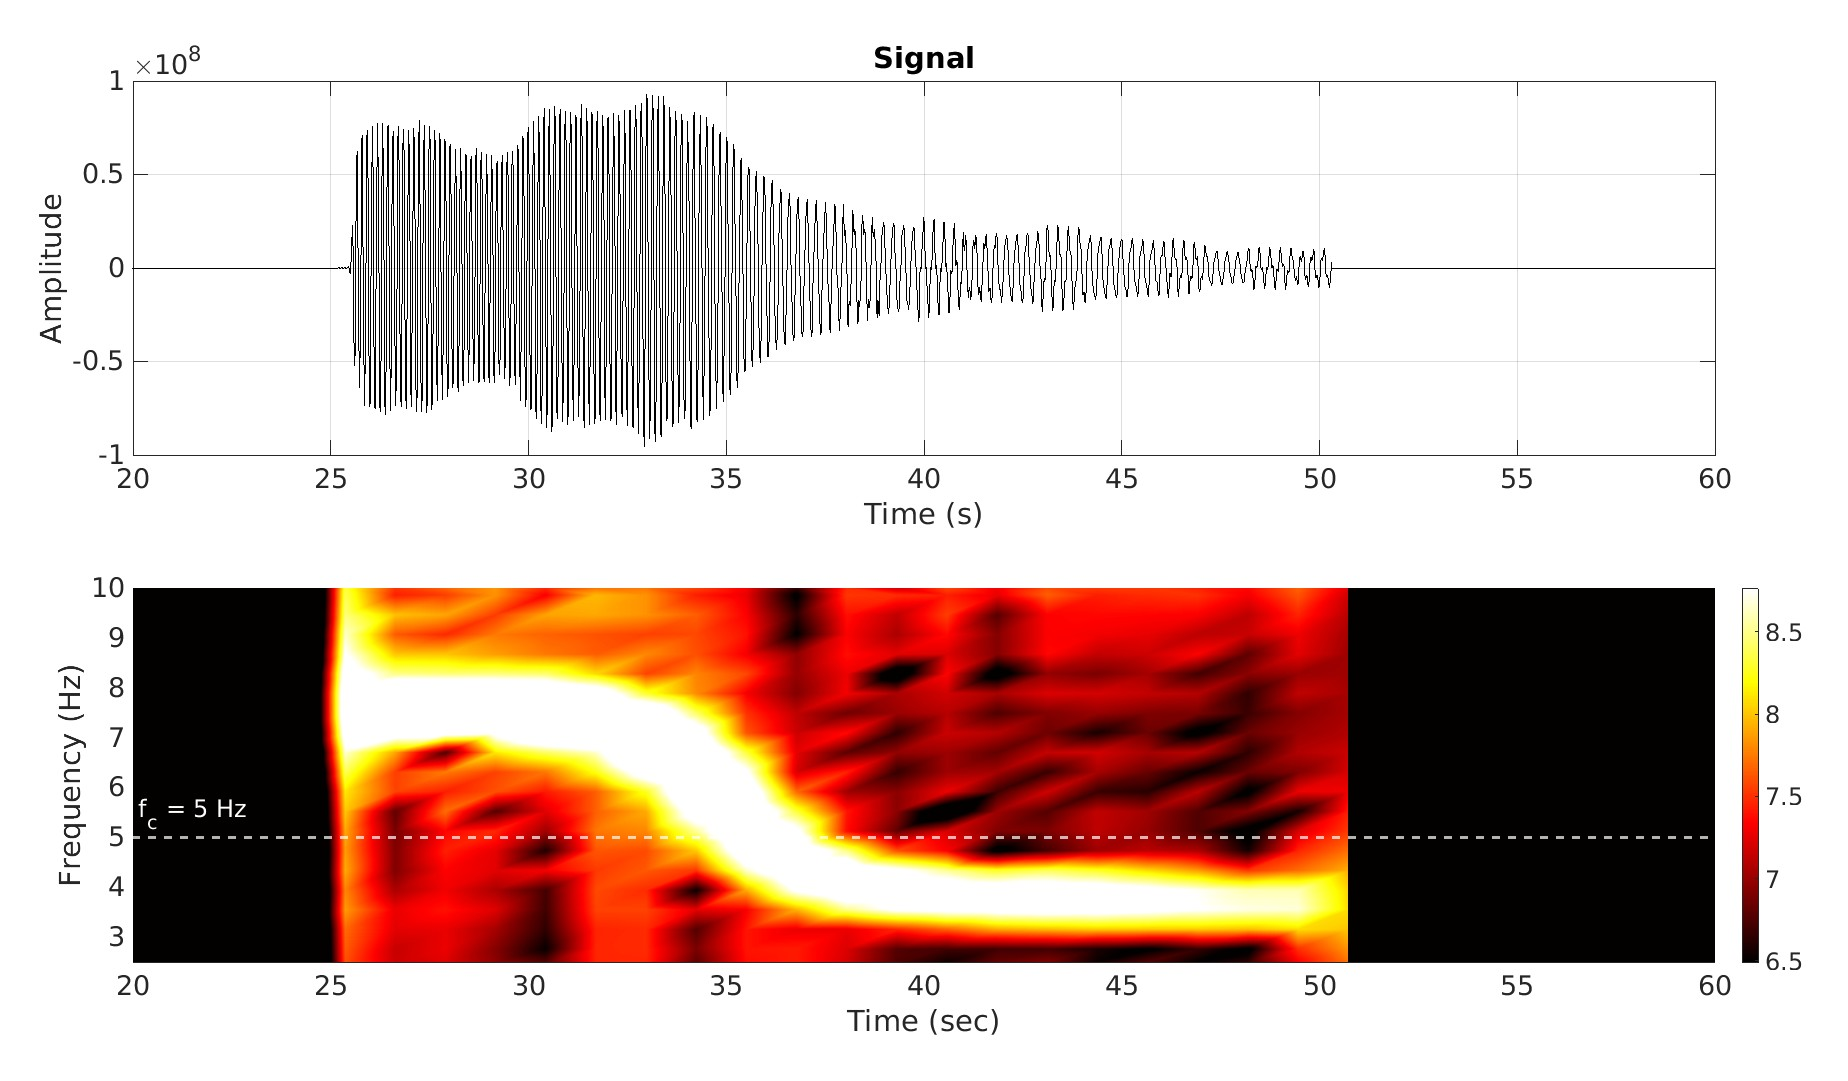
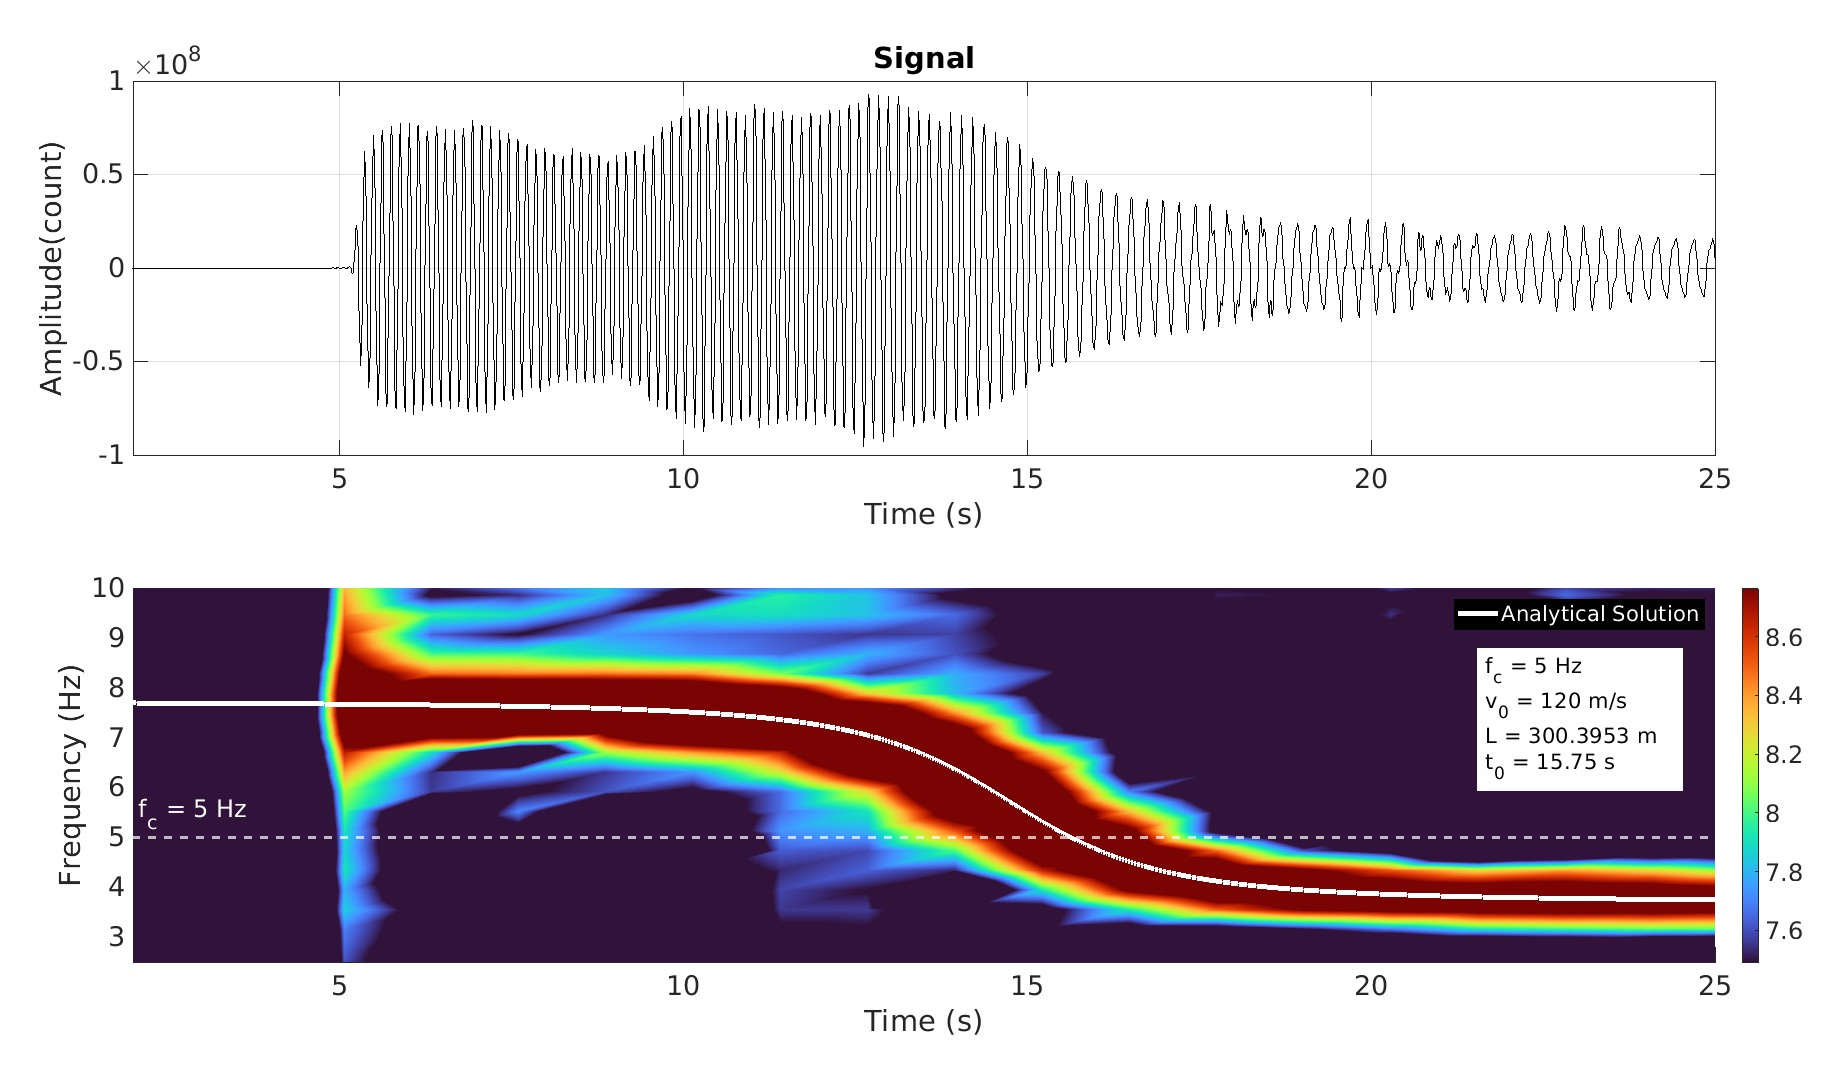
add analytical solution

diff --git a/modeling/FD2D/main_cart.m b/modeling/FD2D/main_cart.m
@@ -10,7 +10,7 @@ clc;clear;close all
 
 %% parameters (Time, Stencil, grid, media, source)
 %%%%% Time %%%%%
-T_total = 120.0;     % unit (s)
+T_total = 30.0;     % unit (s)
 
 %%%%% grid %%%%%
 nz=500 + 6;
@@ -55,7 +55,7 @@ nt = round(T_total/dt) + 1;
 ndamp = 50;
 
 fc = 5;                   % 固定频率 Hz
-v0 = 30;                  % 源速度 m/s
+v0 = 120;                  % 源速度 m/s
 src_iz = ndamp+30;  % 固定深度
 src_ix_start = ndamp + 10;
 
@@ -91,7 +91,7 @@ MACB = -MACF(end:-1:1); % backward
 
 %% station 
 stax = round(nx/2);
-staz = nz-ndamp-10;
+staz = nz-ndamp-300;
 % staz = round(nz/2)
 %% absorbing boundary
 damp = ones(nz,nx);
@@ -132,8 +132,7 @@ sigma = (3*dt*Vs_min)/(4*dx); % for filter
 flag_snap = 0;
 gif_save= 1;
 plot_sta = 1;
-gif_filename = 'snapshot.gif';  % GIF output filename
-sta_name = '1';
+sta_name = '3';
 
 
 
@@ -193,45 +192,125 @@ saveas(gcf, fullfile('output', ['station',sta_name, '.png']));
 print(gcf, fullfile('output', ['station' ,sta_name,'.pdf']), '-dpdf', '-r300');
 
 data = [t; Pr];
-save(fullfile('output', 'station.txt'), 'data', '-ascii');
+save(fullfile('output', ['station',sta_name, '.txt']), 'data', '-ascii');
 end
 
 %% Time-frequency
+data = load(fullfile('output', ['station', sta_name, '.txt']));
 fs = 1 / (data(1,2) - data(1,1));  % 采样率
 signal = data(2,:);         % 截取信号
 dt = 1 / fs;
 
-% === 补零 ===
-Npad = 1024;  % 可以根据需要设置为1024或更高
-signal_pad = [zeros(1,Npad), signal, zeros(1,Npad)];
+% % === 补零 ===
+% Npad = 2048;  % 可以根据需要设置为1024或更高
+% signal_pad = [zeros(1,Npad), signal, zeros(1,Npad)];
 
 % === 时间向量 ===
-tvec = linspace(0, length(signal_pad)*dt, length(signal_pad));
+% tvec = linspace(0, length(signal_pad)*dt, length(signal_pad));
 
 % === 绘图 ===
 tiledlayout(2,1)
 
 % --- 子图 1：补零后的原始信号 ---
 nexttile
-plot(tvec, signal_pad, 'k')
+plot(data(1,:), data(2,:), 'k')
 xlabel('Time (s)')
-ylabel('Amplitude')
-title('Zero-padded Signal')
+ylabel('Amplitude(count)')
+title('Signal')
 set(gca, 'FontSize', 20)
 grid on
-
+  xlim([2 25]);
 % --- 子图 2：Spectrogram ---
-nexttile
-[s, f, t] = spectrogram(signal_pad, 128, 32, 128, fs, 'yaxis');
-imagesc(t, f, abs(s))
-axis xy
-colormap(jet)
-xlabel('Time (s)')
-ylabel('Frequency (Hz)')
-title('Spectrogram (1024-point window, 512 overlap)')
-set(gca, 'FontSize', 20)
-colorbar
 
-% 可选频率范围限制和参考线
-ylim([0 fc*2])
-yline(fc, 'w--', 'f_c = 5 Hz', 'LineWidth', 2, 'FontSize', 14, 'LabelHorizontalAlignment', 'left')
+% doppler effect
+%four parameters 
+L = (staz-src_iz)*(length_z/nz);
+
+t0=15.75;
+v0=v0;
+fc=fc;
+t=data(1,:);
+
+%theory solution
+t_ref = ( (t-t0) -sqrt( (t-t0).^2-(1-(v0/Vp(1,1)).^2).*((t-t0).^2-(L^2/Vp(1,1)^2))) ) ...
+    ./ (1-(v0/Vp(1,1))^2);
+f_sta = fc .* (1./(1+ ((v0./Vp(1,1)).*(v0.*t_ref./sqrt(L.^2+(v0.*t_ref).^2)) )));
+
+
+
+nexttile
+hold on
+[s, f, t] = spectrogram(data(2,:), 256, 128, 256, fs, 'yaxis');
+temp = log10(abs(s));
+pcolor(t,f,temp);
+h1 = plot(data(1,:)-100*dt, f_sta, 'w-', 'LineWidth', 4);  % 解析轨迹
+h2 = yline(fc, 'w--', ['f_c = ', num2str(fc), ' Hz'], ...
+    'LineWidth', 2, ...
+    'FontSize', 18, ...
+    'LabelHorizontalAlignment', 'left');
+clim([max(temp(:))/1.3 max(temp(:))*0.9])
+ylabel('Frequency (Hz)')
+xlabel('Time (s)')
+colormap("turbo");
+colorbar
+ ylim([fc*0.5 fc*2]);
+  xlim([2 25]);
+shading interp;
+set(gca,'FontSize',20)
+legend([h1 h2], { 'Analytical Solution'}, ...
+    'Location', 'northeast', ...
+    'FontSize', 16, ...
+    'TextColor', 'w', ...
+    'EdgeColor', 'k', ...           
+    'Color', 'k', ...               
+    'Box', 'on');  
+
+annotation_text = {...
+    ['f_c = ', num2str(fc), ' Hz'], ...
+    ['v_0 = ', num2str(v0), ' m/s'], ...
+    ['L = ', num2str(L), ' m'], ...
+    ['t_0 = ', num2str(t0), ' s']};
+
+annotation('textbox', [0.8, 0.3, 0.1, 0.1], ...
+    'String', annotation_text, ...
+    'EdgeColor', 'w', ...               % 白色边框
+    'LineWidth', 1.5, ...               % 可选：加粗边框
+    'FontSize', 16, ...
+    'Color', 'k', ...
+    'BackgroundColor', 'w', ...
+    'Interpreter', 'tex');
+
+
+
+
+
+
+
+
+
+
+
+
+
+
+
+
+
+
+
+
+
+
+
+
+
+function cmap = seismic_colormap(m)
+    if nargin < 1
+        m = 256; % 默认256色
+    end
+    % 线性蓝->白->红分三段生成
+    n = floor(m/2);
+    blue = [linspace(0,1,n)', linspace(0,1,n)', ones(n,1)];    % 蓝到白
+    red  = [ones(m-n,1), linspace(1,0,m-n)', linspace(1,0,m-n)']; % 白到红
+    cmap = [blue; red];
+end

diff --git a/modeling/doppler_effect.m b/modeling/doppler_effect.m
@@ -1,0 +1,26 @@
+clc; clear;
+
+% Doppler Effect Simulation for a Moving  Source
+% Define source parameters
+L = 300;           % Perpendicular distance from source to station (m)
+t0 = 15.75;        % Source activation time (s)
+v0 = 120;          % Horizontal rupture velocity (m/s)
+fc = 5;            % Source frequency (Hz)
+Vp = 340;          % Propagation velocity (m/s)
+t = 0:0.001:30;   % Time vector (s)
+
+% Analytical solution for the observed frequency at the station
+% Reference time accounting for source motion and geometry
+t_ref = ((t - t0) - sqrt((t - t0).^2 - (1 - (v0 / Vp)^2) .* ((t - t0).^2 - (L^2 / Vp^2)))) ...
+        ./ (1 - (v0 / Vp)^2);
+
+% Observed frequency at the station as a function of time
+f_sta = fc .* (1 ./ (1 + ((v0 / Vp) .* (v0 .* t_ref ./ sqrt(L^2 + (v0 .* t_ref).^2)))));
+
+% Plot the analytical solution
+figure;
+plot(t, f_sta, 'k', 'LineWidth', 1.5);
+xlabel('Time (s)');
+ylabel('Observed Frequency (Hz)');
+grid on;
+set(gca, 'FontSize', 14);
